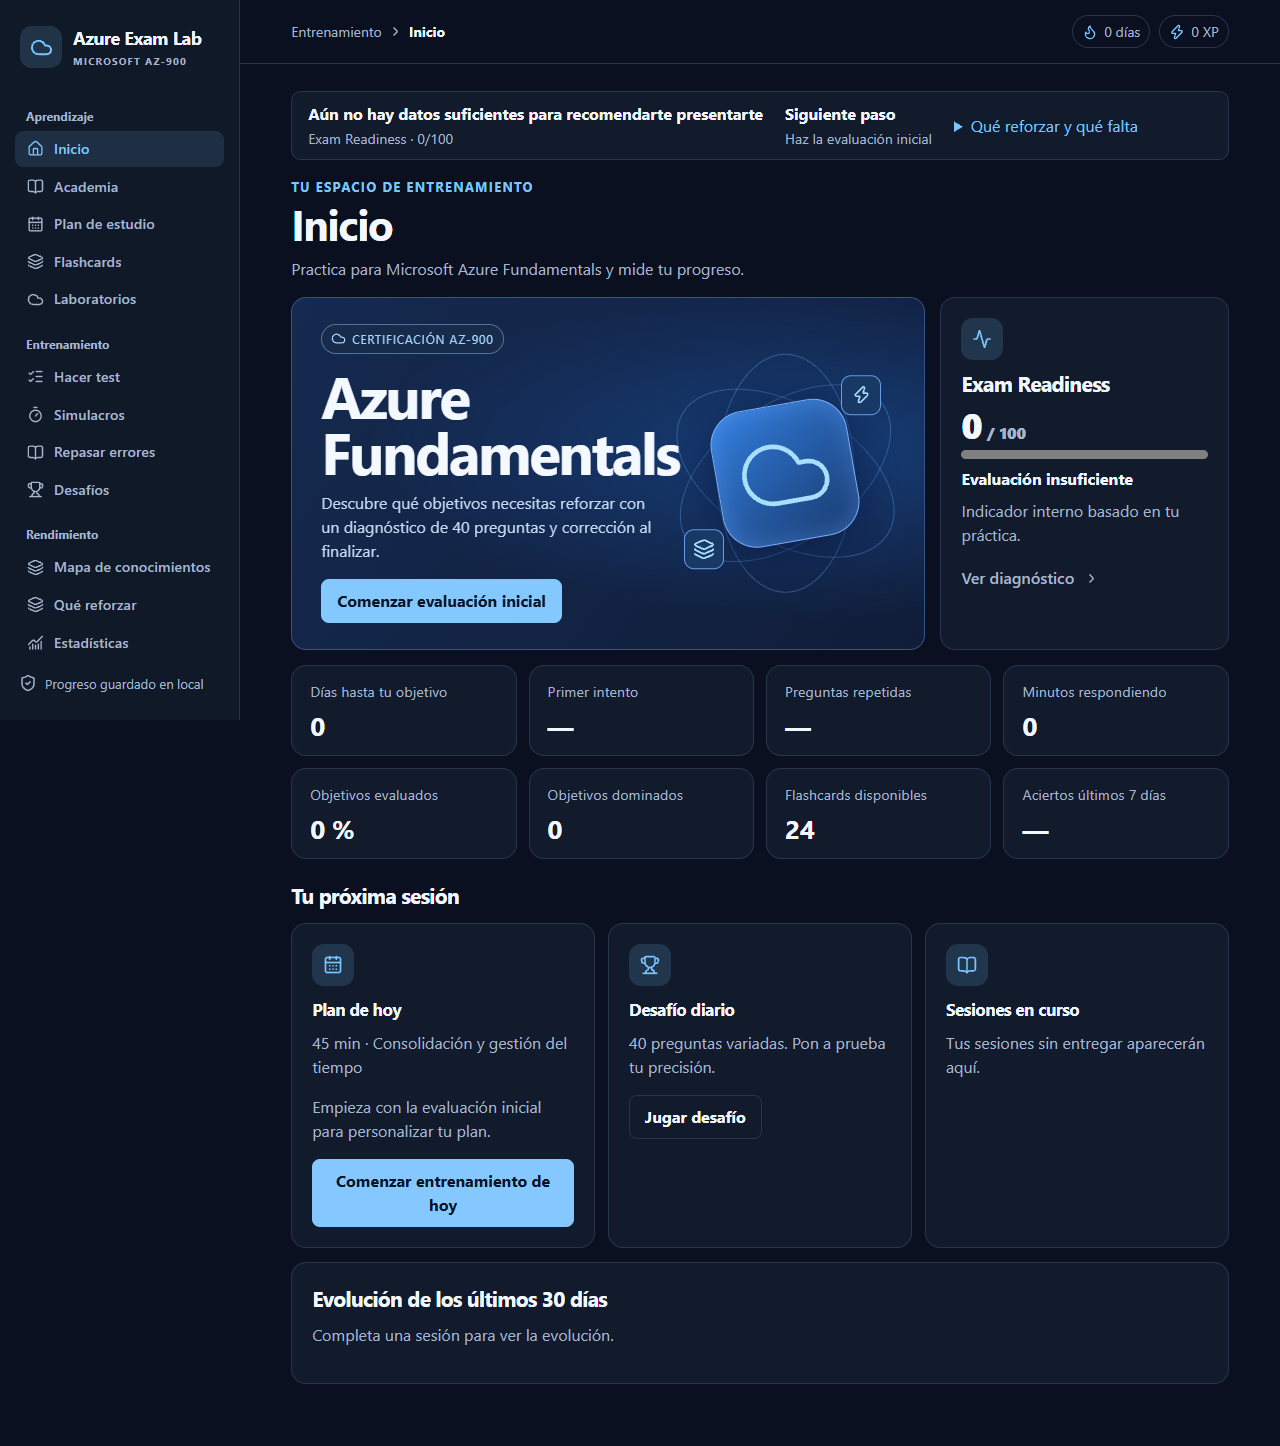
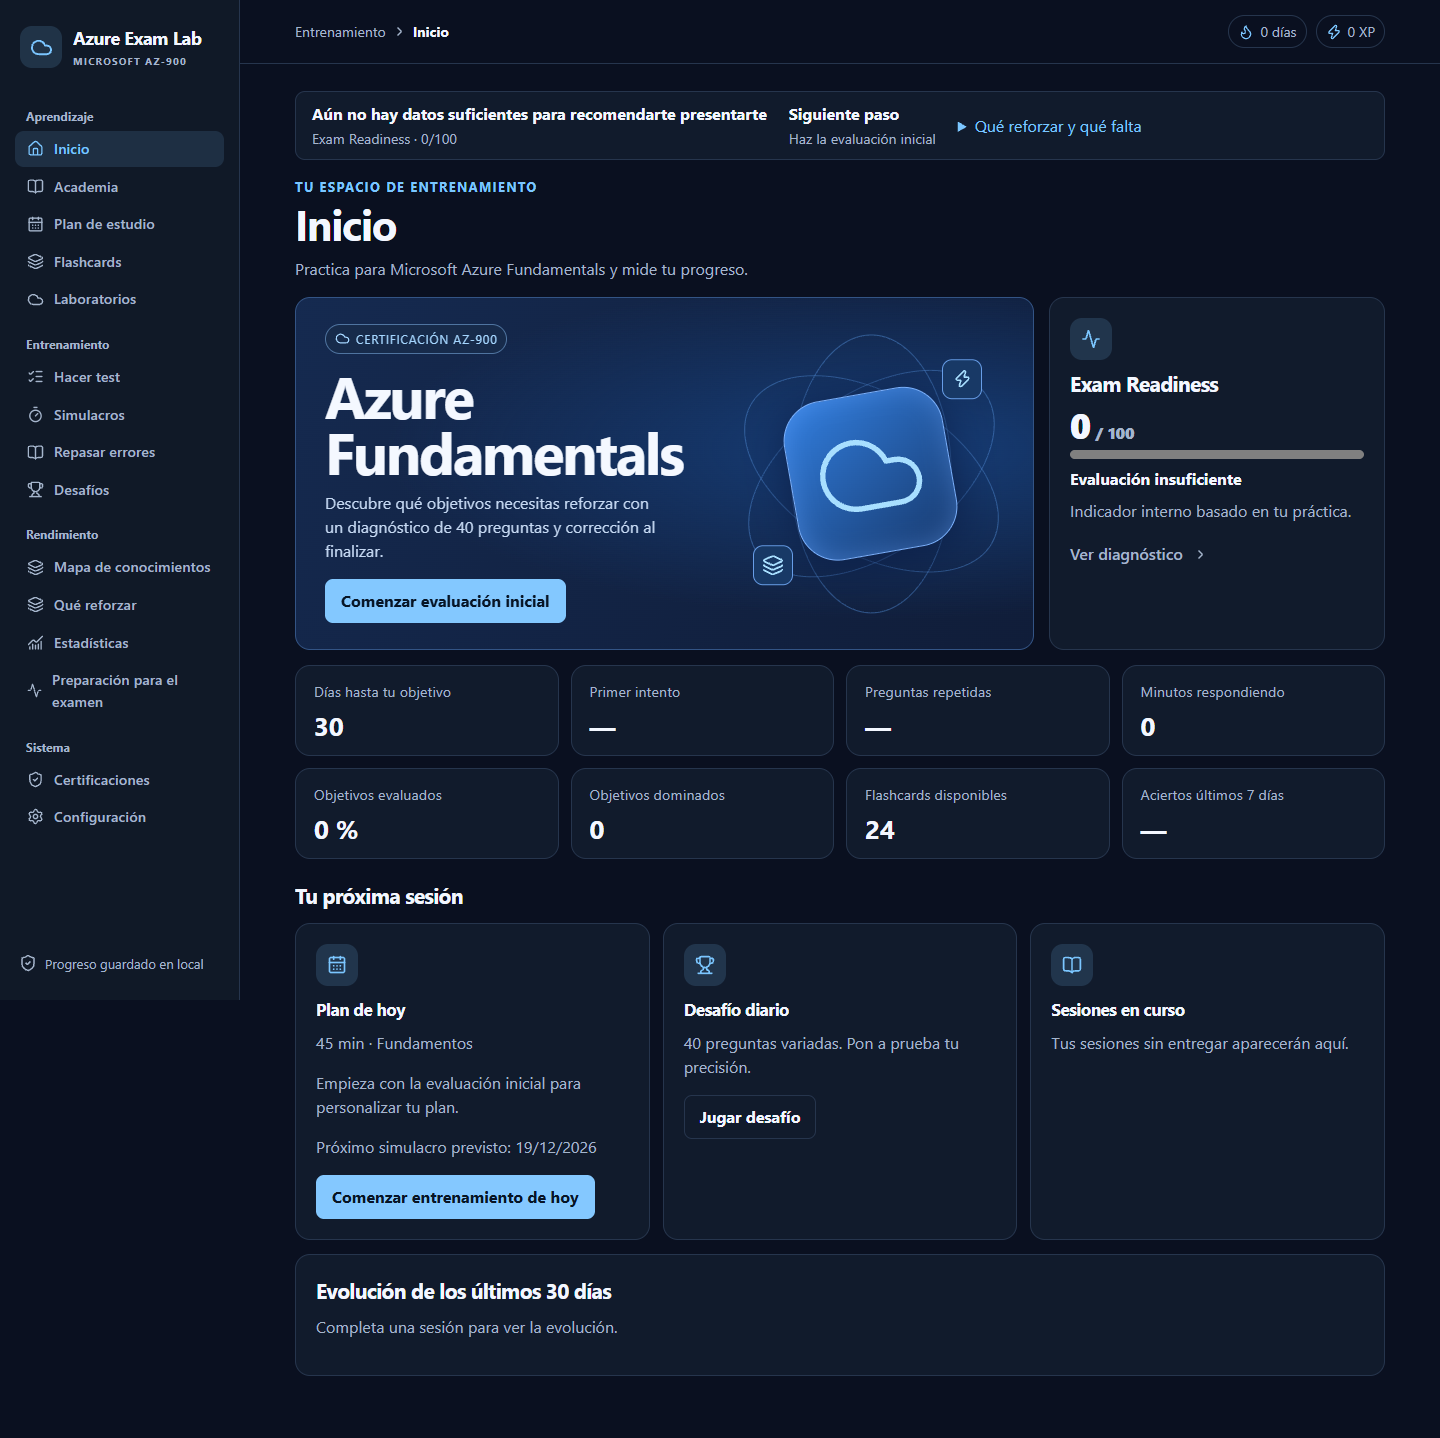
fix: show the study countdown as soon as the dashboard loads

diff --git a/app/page.tsx b/app/page.tsx
@@ -3,7 +3,7 @@
 import {useEffect,useState,type FormEvent} from 'react';
 import {Activity,BookOpen,CalendarDays,ChartNoAxesCombined,Check,ChevronRight,Cloud,Flag,Flame,House,Layers,ListChecks,Settings as Gear,ShieldCheck,Timer,Trophy,Zap} from 'lucide-react';
 import {Area,AreaChart,CartesianGrid,ResponsiveContainer,Tooltip,XAxis,YAxis} from 'recharts';
-import {causes,dateKey,defaults,domainOf,domains,guide,modes,objectives,percent,reflections,TEST_SIZE,type Mode,type Session,type Settings} from '../lib/catalog';
+import {causes,defaults,domainOf,domains,guide,modes,objectives,percent,reflections,TEST_SIZE,type Mode,type Session,type Settings} from '../lib/catalog';
 import type {dashboard} from '../lib/store';
 import {reinforcement} from '../lib/reinforcement';
 import {Academy,Flashcards,Knowledge,Labs,StudyPlan} from './learning-panels';
@@ -100,10 +100,10 @@ export default function Home(){
   else void launch('adaptive',{objective:next?.objective,minutes:data.settings.minutes});
  }
  const stats=data?.stats;
- const days=Math.max(0,Math.ceil((Date.parse(settings.target)-Date.parse(dateKey(now||Date.parse(settings.target))))/86400000));
+ const days=data?.plan.days??0;
  const recommendation=stats?.recommendation??0;
  const awaitingInitial=!data?.history.some(h=>h.mode==='initial')&&!stats?.total;
- const phase=days>42?'Evaluación y práctica por dominio':days>21?'Práctica adaptativa y repetición espaciada':days>7?'Simulacros y refuerzo':'Consolidación y gestión del tiempo';
+ const phase=['Fundamentos','Servicios Azure','Administración','Preparación final'][data?.plan.calendar[0]?.phase??0];
  const q=session?.questions[session.position];
  const answer=q&&session?.answers[q.id];
  const deferred=session?.mode==='mock'||session?.mode==='initial';
@@ -232,7 +232,7 @@ export default function Home(){
      <div className="metrics"><Metric label="Días hasta tu objetivo" value={days}/><Metric label="Primer intento" value={stats?.unique?stats.freshRate+' %':'—'}/><Metric label="Preguntas repetidas" value={stats?.repeatCount?stats.repeatRate+' %':'—'}/><Metric label="Minutos respondiendo" value={Math.round((stats?.seconds??0)/60)}/><Metric label="Objetivos evaluados" value={(stats?.coverage??0)+' %'}/><Metric label="Objetivos dominados" value={data.map.filter(m=>m.status==='Dominado').length}/><Metric label="Flashcards disponibles" value={data.cardQueue.length}/><Metric label="Aciertos últimos 7 días" value={stats?.weekly?stats.weeklyRate+' %':'—'}/></div>
      <h2 className="section-title">Tu próxima sesión</h2>
      <div className="lower-grid">
-      <section className="panel"><div className="panel-icon"><CalendarDays size={20}/></div><h3>Plan de hoy</h3><p>{settings.minutes} min · {phase}</p><p>{stats?.total?'Objetivo recomendado: '+objectives[recommendation]:'Empieza con la evaluación inicial para personalizar tu plan.'}</p><button className="primary" disabled={busy} onClick={today}>Comenzar entrenamiento de hoy</button></section>
+      <section className="panel"><div className="panel-icon"><CalendarDays size={20}/></div><h3>Plan de hoy</h3><p>{settings.minutes} min · {phase}</p><p>{stats?.total?'Objetivo recomendado: '+objectives[recommendation]:'Empieza con la evaluación inicial para personalizar tu plan.'}</p>{data.plan.calendar.find(day=>day.mode==='mock')&&<p>Próximo simulacro previsto: {data.plan.calendar.find(day=>day.mode==='mock')?.date.split('-').reverse().join('/')}</p>}<button className="primary" disabled={busy} onClick={today}>Comenzar entrenamiento de hoy</button></section>
       <section className="panel"><div className="panel-icon"><Trophy size={20}/></div><h3>Desafío diario</h3><p>{data.dailyDone?'Desafío de hoy completado.':'40 preguntas variadas. Pon a prueba tu precisión.'}</p><button className="secondary" disabled={busy} onClick={()=>void launch('daily')}>{data.dailyDone?'Ver resultado':'Jugar desafío'}</button></section>
       <section className="panel"><div className="panel-icon"><BookOpen size={20}/></div><h3>Sesiones en curso</h3>{data.active.length?data.active.map(s=><button className="ghost" disabled={busy} key={s.id} onClick={()=>void resume(s.id)}>{modes[s.mode]} · {s.count}/{s.total}</button>):<p>Tus sesiones sin entregar aparecerán aquí.</p>}</section>
      </div>

diff --git a/tests/workflow.spec.ts b/tests/workflow.spec.ts
@@ -6,6 +6,7 @@ import {mkdirSync} from 'node:fs';
 test('evaluación inicial, reanudación y corrección tras la entrega',async({page})=>{
  await page.goto('/');
  if(process.env.AZURE_CAPTURE){
+  await page.setViewportSize({width:1440,height:1000});
   mkdirSync('docs',{recursive:true});
   await expect(page.getByRole('heading',{name:'Inicio',exact:true})).toBeVisible();
   await page.screenshot({path:'docs/inicio.png',fullPage:true,animations:'disabled'});
